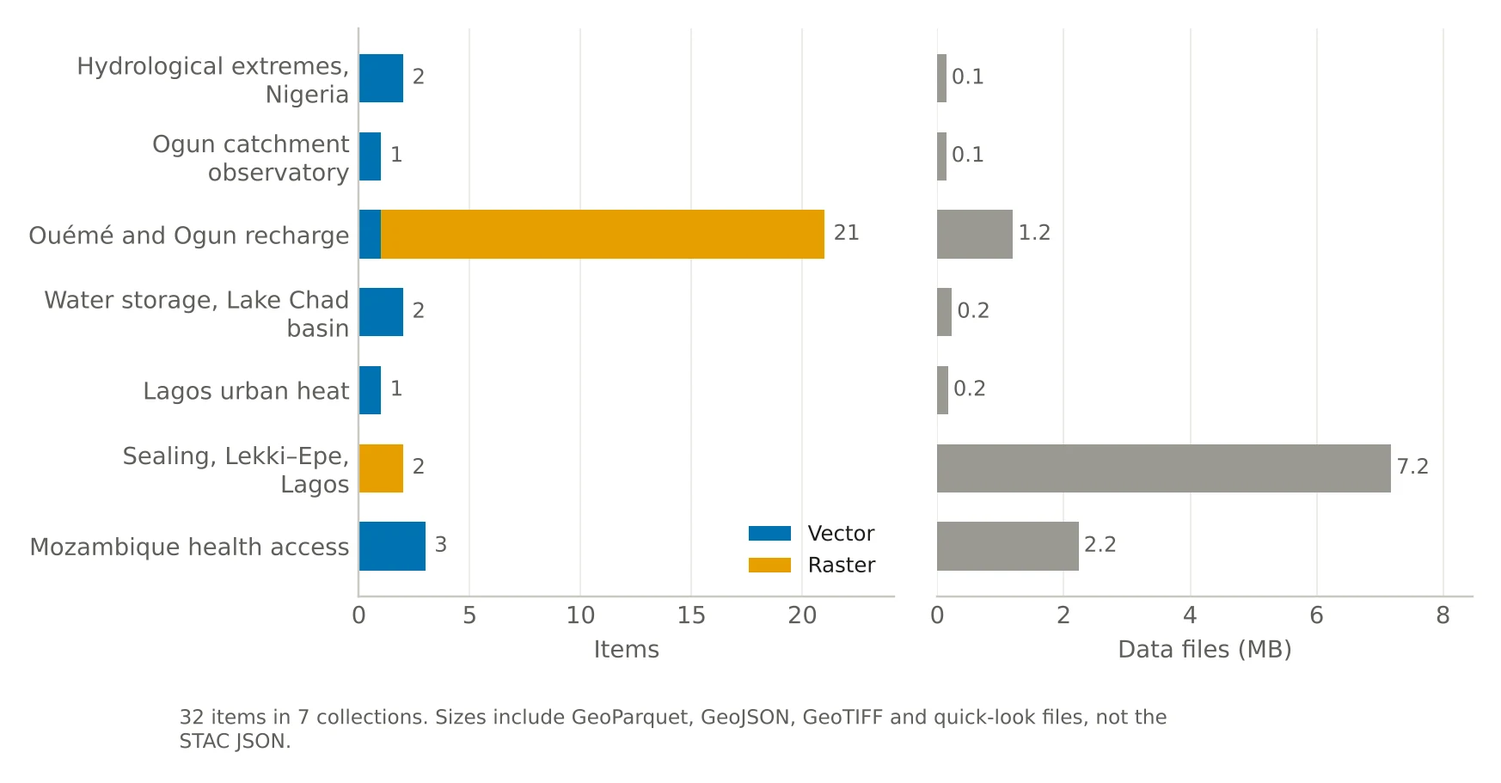
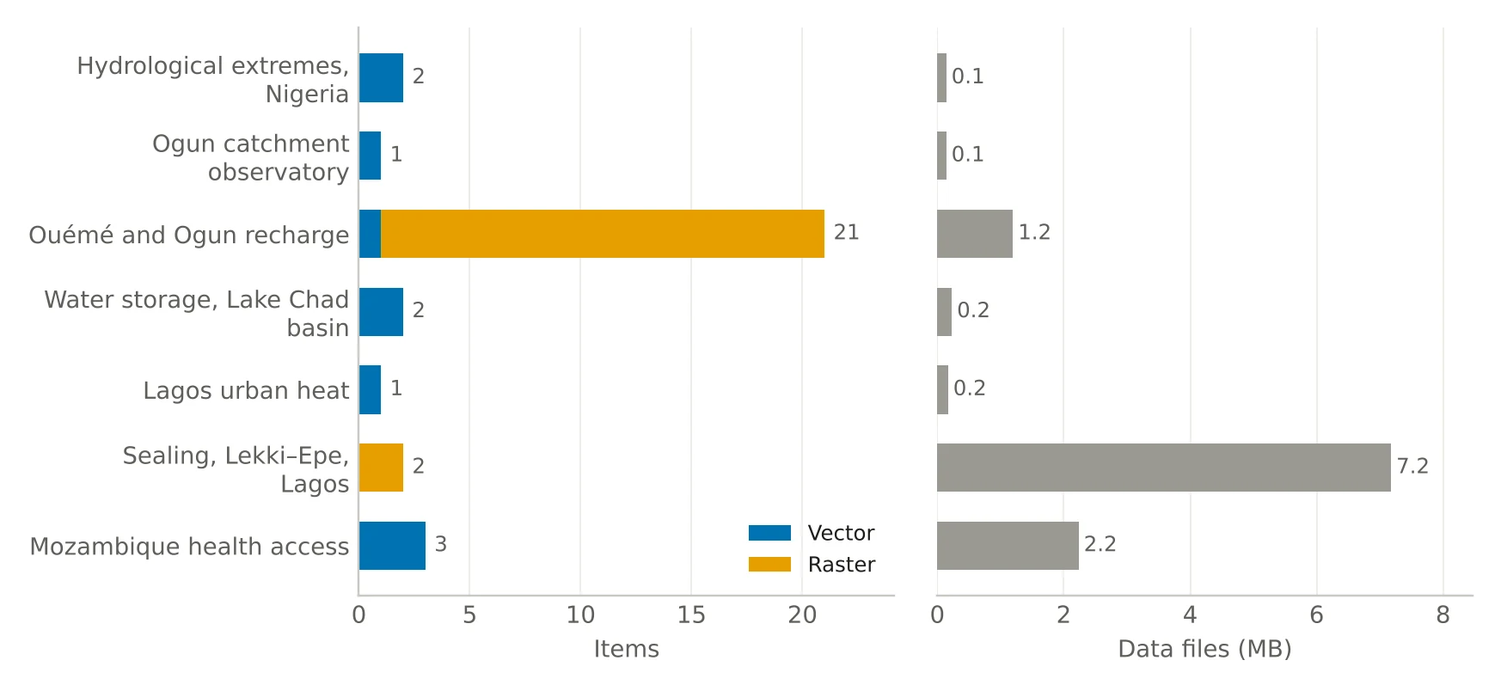
Fixes from the pre-release review

diff --git a/docs/about.html b/docs/about.html
@@ -81,17 +81,17 @@
 <p>Each study page shows maps, but a reader who wants the layers behind them has to find the right file in the right repository, and some of those files are not GIS formats: the per-cell rainfall return levels of the Nigerian extremes study and the per-cell storage trends of the Lake Chad study are stored as JSON for the page’s own map, and the Mozambique facility lists as a CSV table. A catalogue gives each layer a stable address, a description, a time range, an extent, a licence and a checksum, and offers it in formats that GIS software and code read directly.</p>
 <p>Two standard ways of publishing such data were used. STAC describes files and their metadata as linked JSON documents and needs no server (STAC, 2024). OGC API Features is a web service standard for querying vector features, for example by bounding box, page by page (OGC, 2022). The first suits a static website; the second needs a database and a running server.</p>
 <h2 id="design">2. Design</h2>
-<p>Figure 1 shows the path of a layer: from a study repository, through one build script, into the static catalogue and from there into the database behind the service.</p>
+<p>Figure 1 shows the path of a layer: from a study repository, through the build script, into the static catalogue; from there the website is written, and the vector layers are loaded into the database behind the service.</p>
 <figure>
-<picture><source media="(max-width: 640px)" srcset="assets/figures/fig1_flow_phone.webp"><img src="assets/figures/fig1_flow.webp" alt="Figure 1. From the study repositories to the static catalogue and the service. The website and the catalogue share one folder; the service is run locally or with Docker Compose." width="804" height="1522" style="max-width: 351px" loading="lazy" decoding="async"></picture>
+<picture><source media="(max-width: 640px)" srcset="assets/figures/fig1_flow_phone.webp"><img src="assets/figures/fig1_flow.webp" alt="Figure 1. From the study repositories to the static catalogue and the service. The website and the catalogue share one folder; the service is run locally or with Docker Compose." width="996" height="1861" style="max-width: 435px" loading="lazy" decoding="async"></picture>
 <figcaption aria-hidden="true"><strong>Figure 1.</strong> From the study repositories to the static catalogue and the service. The website and the catalogue share one folder; the service is run locally or with Docker Compose.</figcaption>
 </figure>
 <h3 id="one-configuration-file">2.1 One configuration file</h3>
-<p><code>catalogue/sources.yaml</code> lists the studies. Each entry gives the repository, a title and description, the licences the study states and the file that states them, and the layers to include with a title, a description and a time range. A time range can also be read from a field of the layer or from a JSON results file of the study, so it is not typed twice. If an entry lists no layers, every GeoJSON and GeoTIFF file in the study’s <code>docs/data</code> and <code>outputs</code> folders is taken. If the repository, its outputs, a study period or a licence statement is missing, the entry is skipped and reported on the website. In all, 8 studies are configured; one was skipped (Mau-Forest-Land-Cover: no GeoJSON or GeoTIFF outputs found) at the last build.</p>
+<p><code>catalogue/sources.yaml</code> lists the studies. Each entry gives the repository, a title and description, the licences the study states and the file that states them, and the layers to include with a title, a description and a time range. A time range can also be read from a field of the layer or from a JSON results file of the study, so it is not typed twice. If an entry lists no layers, every GeoJSON and GeoTIFF file in the study’s <code>docs/data</code> and <code>outputs</code> folders is taken. If the repository, its outputs, a study period or a licence statement is missing, the entry is skipped and reported on the website. In all, 8 studies are configured; at the last build one was skipped (Mau-Forest-Land-Cover: no GeoJSON or GeoTIFF outputs found).</p>
 <h3 id="formats-checksums-and-size-limits">2.2 Formats, checksums and size limits</h3>
 <p>Vector layers are written as GeoParquet 1.1 (GeoParquet, n.d.) and GeoJSON, in longitude–latitude (EPSG:4326). Five layers were converted from files written for the study pages (JSON or CSV): grid cells to polygons, facility tables to points, and a district table joined to its outlines. Rasters are written as Cloud-Optimised GeoTIFFs (OGC, 2023) with rio-cogeo, in their original grid and projection, together with a small PNG quick-look in EPSG:4326 for the website. The catalogue holds 10 GeoParquet files (0.7 MB), 10 GeoJSON files (2.3 MB), 22 GeoTIFFs (7.5 MB) and 22 quick-looks (0.7 MB). The largest file is 3.5 MB.</p>
 <p>Every file carries its size and SHA-256 checksum (STAC file extension), raster items carry their grid (projection extension) and vector items their columns and feature count (table extension). A converted file larger than 20 MB would not be copied: its asset would point to the source file in the study repository instead. No file reached that limit, so every file is in the catalogue itself. The build also stops if the website folder would exceed 150 MB.</p>
-<p>Each collection records the study page, the repository, the data licence (CC BY 4.0 for 5 of the 7 studies, with exceptions noted below) and the commit of the study repository the files were taken from. The Coastal-Hydrogeology-Modeling repository states an MIT licence and no separate licence for its derived data, so its collection is marked “other” until the author states one. The Mozambique-Health-Access collection is marked “various”: each of its three items states its own licence (CC-BY-4.0, ODbL-1.0), because the layer derived from OpenStreetMap is under the ODbL, as the study states. In Ogun-Catchment-Coast-Observatory, the SAR flood fields (sar_flood_km2, sar_flood_max_km2, dw_flood_km2, sar_inundation_km2) use a MERIT Hydro height-above-drainage mask, which is dual-licensed CC BY-NC 4.0 or ODbL 1.0; if you reuse these fields commercially, check MERIT Hydro’s terms (see LICENSE-DATA.md of the study). In Lagos-Urban-Heat-Analytics, LGA boundaries are FAO GAUL 2015 (non-commercial use only); see LICENSE-DATA.md of the study.</p>
+<p>Each collection records the study page, the repository, the data licence (CC BY 4.0 for 5 of the 7 studies, with exceptions noted below) and the commit of the study repository the files were taken from. The Coastal-Hydrogeology-Modeling repository states an MIT licence and no separate licence for its derived data, so its collection is marked “other” until the author states one. The Mozambique-Health-Access collection is marked “various”: each of its three items states its own licence (CC BY 4.0, ODbL 1.0), because the layer derived from OpenStreetMap is under the ODbL, as the study states. In Ogun-Catchment-Coast-Observatory, the SAR flood fields (sar_flood_km2, sar_flood_max_km2, dw_flood_km2, sar_inundation_km2) use a MERIT Hydro height-above-drainage mask, which is dual-licensed CC BY-NC 4.0 or ODbL 1.0; if you reuse these fields commercially, check MERIT Hydro’s terms (see LICENSE-DATA.md of the study). In Lagos-Urban-Heat-Analytics, LGA boundaries are FAO GAUL 2015 (non-commercial use only); see LICENSE-DATA.md of the study.</p>
 <h3 id="a-static-catalogue-on-github-pages">2.3 A static catalogue on GitHub Pages</h3>
 <p>The catalogue is saved as a self-contained STAC catalogue: links between the root catalogue, collections and items are relative, and there are no <code>self</code> links, so the folder works wherever it is copied. The website is built from the same files. The index page lists the collections with small extent maps drawn with a copy of Leaflet on country outlines from Natural Earth, without a tile server, and a search box filters the items in the browser. Each collection and item has its own page with a map, the metadata and the files. The pages load their fonts from api.fontshare.com and, on the published site only, a reaction and page-view counter from abacus.jasoncameron.dev; Leaflet and the map outlines are served from the site itself, and nothing else is requested from a third party.</p>
 <h3 id="ogc-api-features-with-postgis-and-pygeoapi">2.4 OGC API Features with PostGIS and pygeoapi</h3>
@@ -188,13 +188,13 @@
 </tr>
 </tbody>
 </table></div>
-<p>Four of the studies lie in southwest Nigeria and Benin; the others cover two Nigerian river basins, the Lake Chad basin and Mozambique (Figure 2). Most items come from one study, the rainfall, evapotranspiration and water-surplus grids of the Ouémé and Ogun recharge study, while most of the data volume is in the two rasters of the Lekki–Epe sealing study (Figure 3).</p>
+<p>Most of the studies lie in southwest Nigeria and Benin; the others cover two Nigerian river basins, the Lake Chad basin and Mozambique (Figure 2). Most items come from one study, the rainfall, evapotranspiration and water-surplus grids of the Ouémé and Ogun recharge study, while most of the data volume is in the rasters of the Lekki–Epe sealing study (Figure 3).</p>
 <figure>
-<picture><source media="(max-width: 640px)" srcset="assets/figures/fig2_footprints_phone.webp"><img src="assets/figures/fig2_footprints.webp" alt="Figure 2. Where the items lie. Each item is drawn with the geometry recorded in its STAC item; for rasters, this is the extent of the grid." width="1737" height="1343" style="max-width: 758px" loading="lazy" decoding="async"></picture>
+<picture><source media="(max-width: 640px)" srcset="assets/figures/fig2_footprints_phone.webp"><img src="assets/figures/fig2_footprints.webp" alt="Figure 2. Where the items lie. Each item is drawn with the geometry recorded in its STAC item; for rasters, this is the extent of the grid." width="1734" height="1276" style="max-width: 757px" loading="lazy" decoding="async"></picture>
 <figcaption aria-hidden="true"><strong>Figure 2.</strong> Where the items lie. Each item is drawn with the geometry recorded in its STAC item; for rasters, this is the extent of the grid.</figcaption>
 </figure>
 <figure>
-<picture><source media="(max-width: 640px)" srcset="assets/figures/fig3_contents_phone.webp"><img src="assets/figures/fig3_contents.webp" alt="Figure 3. Items and data volume per collection. The volume counts the GeoParquet, GeoJSON, GeoTIFF and quick-look files, not the STAC JSON." width="1746" height="911" style="max-width: 762px" loading="lazy" decoding="async"></picture>
+<picture><source media="(max-width: 640px)" srcset="assets/figures/fig3_contents_phone.webp"><img src="assets/figures/fig3_contents.webp" alt="Figure 3. Items and data volume per collection. The volume counts the GeoParquet, GeoJSON, GeoTIFF and quick-look files, not the STAC JSON." width="1746" height="804" style="max-width: 762px" loading="lazy" decoding="async"></picture>
 <figcaption aria-hidden="true"><strong>Figure 3.</strong> Items and data volume per collection. The volume counts the GeoParquet, GeoJSON, GeoTIFF and quick-look files, not the STAC JSON.</figcaption>
 </figure>
 <p>The periods are those of the layers, not of the studies: for example the Lagos layer holds the attributes of an earlier Earth Engine export, and its own period field is used.</p>

diff --git a/docs/index.html b/docs/index.html
@@ -155,7 +155,7 @@
     </div>
 </li>
     </ul>
-    <p class="cat-pending"><span data-stat="n_pending">1</span> more studies are listed in <code>catalogue/sources.yaml</code> but were not added at the last build: <a href="https://github.com/oloyededavid/Mau-Forest-Land-Cover">Mau-Forest-Land-Cover</a> (no GeoJSON or GeoTIFF outputs found). Each is added by rebuilding once its repository has outputs, a study period and a licence statement.</p>
+    <p class="cat-pending">Listed in <code>catalogue/sources.yaml</code> but not added at the last build (<span data-stat="n_pending">1</span> study): <a href="https://github.com/oloyededavid/Mau-Forest-Land-Cover">Mau-Forest-Land-Cover</a> (no GeoJSON or GeoTIFF outputs found). It is added by rebuilding once its repository has outputs, a study period and a licence statement.</p>
 </section>
 
 <section id="search" aria-labelledby="h-search">
@@ -181,7 +181,7 @@
 <section id="use" aria-labelledby="h-use">
     <h2 class="cat-h" id="h-use">Use the data</h2>
     <p>The catalogue root is <a href="stac/catalog.json"><code>stac/catalog.json</code></a>. All links inside it are relative, so it can be copied or mirrored as a folder. Vector layers come as GeoParquet and GeoJSON in longitude–latitude (EPSG:4326); rasters as Cloud-Optimised GeoTIFFs in their original grid, with a PNG quick-look. Each file has its size and SHA-256 checksum in the STAC item (<code>file:size</code>, <code>file:checksum</code>).</p>
-    <pre class="cat-code"><code>import pystac, geopandas as gpd
+    <pre class="cat-code" tabindex="0"><code>import pystac, geopandas as gpd
 cat = pystac.Catalog.from_file("https://oloyededavid.github.io/Open-Geodata-Catalogue/stac/catalog.json")
 item = cat.get_child("observational-hydrology-extremes").get_item("study-areas")
 gdf = gpd.read_parquet(item.assets["geoparquet"].get_absolute_href())</code></pre>
@@ -191,7 +191,7 @@ gdf = gpd.read_parquet(item.assets["geoparquet"].get_absolute_href())</code></pr
 <section id="api" aria-labelledby="h-api">
     <h2 class="cat-h" id="h-api">OGC API Features</h2>
     <p>The <span data-stat="n_vector_items">10</span> vector layers can also be served as OGC API Features collections from PostGIS with pygeoapi, so that GIS clients can query them by bounding box and page through features. This website is static and cannot run that service. To run it, clone the repository and start it with Docker Compose, or locally with PostgreSQL, PostGIS and pygeoapi installed (see the README):</p>
-    <pre class="cat-code"><code>docker compose up
+    <pre class="cat-code" tabindex="0"><code>docker compose up
 curl "http://localhost:5000/collections"
 curl "http://localhost:5000/collections/observational_hydrology_extremes_study_areas/items?limit=5&amp;bbox=3,5,10,17"</code></pre>
     <p>At the last local check (<span data-stat="svc:checked">2026-11-19</span>), the service served <span data-stat="svc:n_collections">10</span> collections with <span data-stat="svc:n_features">4,162</span> features from PostGIS <span data-stat="svc:postgis_version">3.4.2</span> with pygeoapi <span data-stat="svc:pygeoapi_version">0.24.0</span>, and every check passed: paging with <code>limit</code>, single features, bounding-box filtering and the core, GeoJSON and OpenAPI conformance classes. pygeoapi declares <span data-stat="svc:conformance_classes">18</span> conformance classes in all; the others were not tested here, and no formal OGC test suite was run.</p>

diff --git a/scripts/build_figures.py b/scripts/build_figures.py
@@ -73,29 +73,29 @@ def arrow(ax, a, b, label=None, off=(0, 0.12)):
 def fig1_flow(phone):
     S = stats()
     n_rep = S["n_collections"]
-    src = ("Study repositories", [f"{n_rep} studies", "docs/data, outputs", "GeoJSON, GeoTIFF,", "JSON, CSV"])
+    src = ("Study repositories", [f"{n_rep} studies included", "docs/data, outputs:", "GeoJSON, GeoTIFF,", "JSON, CSV"])
     cfg = ("sources.yaml", ["one entry per study:", "layers, periods,", "licences"])
     bld = ("build_catalogue.py", ["converts, checksums,", "writes STAC 1.1.0"])
     stac = ("Static catalogue", ["GeoParquet, GeoJSON,", "Cloud-Optimised GeoTIFF,", "STAC JSON with", "relative links"])
     site = ("GitHub Pages", ["browsable website,", "search, maps"])
     pg = ("PostGIS", ["one table per", "vector item"])
-    api = ("pygeoapi", ["OGC API Features,", "local or Docker"])
+    api = ("pygeoapi", ["OGC API Features,", "local or Docker;", "configured by", "build_service_config.py"])
     # one stacked layout for both sizes: a wide one shrinks below reading size in the text column
-    fig, ax = plt.subplots(figsize=(5.6, 8.6))
-    ax.set_xlim(0, 7.2); ax.set_ylim(1.4, 15.6)
-    w, h = 3.4, 2.3
-    P = {"src": (0.0, 13.2), "cfg": (3.8, 13.2), "bld": (1.9, 10.1), "stac": (0.0, 6.7), "site": (0.0, 3.3),
-         "pg": (3.8, 6.7), "api": (3.8, 3.3)}
+    fig, ax = plt.subplots(figsize=(5.6, 10.6))
+    ax.set_xlim(0, 7.2); ax.set_ylim(0.3, 14.2)
+    w, h = 3.4, 2.1
+    P = {"src": (0.0, 12.0), "cfg": (3.8, 12.0), "bld": (1.9, 9.2), "stac": (1.9, 6.4), "site": (0.0, 3.4),
+         "pg": (3.8, 3.4), "api": (3.8, 0.4)}
     for k, (t, l) in zip(P, (src, cfg, bld, stac, site, pg, api)):
         box(ax, *P[k], w, h, t, l, fill="#f6f6f3" if k == "bld" else "white", small=True)
-    arrow(ax, (1.7, 13.2), (2.8, 12.4)); arrow(ax, (5.5, 13.2), (4.4, 12.4))
-    arrow(ax, (2.8, 10.1), (1.7, 9.0), "files", off=(-0.55, 0))
-    arrow(ax, (1.7, 6.7), (1.7, 5.6), "as is", off=(0.45, -0.1))
-    arrow(ax, (3.4, 7.3), (3.8, 7.3))
-    arrow(ax, (5.5, 6.7), (5.5, 5.6), "SQL", off=(0.4, -0.1))
-    ax.text(0.0, 2.9, textwrap.fill("The tests check the catalogue files, the service and the pages. The website "
-                                     "and the catalogue are the same folder, docs/. The short arrow is "
-                                     "load_postgis.py, which loads the vector items.", 62), fontsize=7.8, color=INK2, va="top")
+    arrow(ax, (1.7, 12.0), (2.8, 11.3)); arrow(ax, (5.5, 12.0), (4.4, 11.3))
+    arrow(ax, (3.6, 9.2), (3.6, 8.5), "files", off=(0.4, -0.15))
+    arrow(ax, (2.6, 6.4), (1.7, 5.5), "build_site.py", off=(-0.95, -0.1))
+    arrow(ax, (4.6, 6.4), (5.5, 5.5), "load_postgis.py", off=(1.1, -0.1))
+    arrow(ax, (5.5, 3.4), (5.5, 2.5), "SQL", off=(0.4, -0.15))
+    ax.text(0.0, 2.45, textwrap.fill("The tests check the catalogue files, the service and the numbers on the "
+                                     "pages. The website and the catalogue share one folder, docs/.", 30),
+            fontsize=7.6, color=INK2, va="top")
     ax.axis("off")
     ax.set_aspect("equal")
     save(fig, "fig1_flow", phone)
@@ -109,8 +109,8 @@ def fig2_footprints(phone):
     base = gpd.read_file(DOCS / "assets" / "basemap.geojson")
     zoom = (1.0, 5.6, 4.6, 11.0)  # lon_min, lat_min, lon_max, lat_max: southwest Nigeria and Benin
     if phone:
-        fig = plt.figure(figsize=(5.6, 10.6))
-        a0 = fig.add_axes([0.0, 0.47, 1.0, 0.5]); a1 = fig.add_axes([0.08, 0.1, 0.84, 0.34])
+        fig = plt.figure(figsize=(3.8, 7.6))
+        a0 = fig.add_axes([0.0, 0.5, 1.0, 0.47]); a1 = fig.add_axes([0.06, 0.16, 0.88, 0.3])
     else:
         fig = plt.figure(figsize=(7.6, 5.6))
         a0 = fig.add_axes([0.0, 0.2, 0.52, 0.76]); a1 = fig.add_axes([0.56, 0.2, 0.42, 0.72])
@@ -119,7 +119,7 @@ def fig2_footprints(phone):
         base.plot(ax=ax, facecolor=LAND, edgecolor="white", linewidth=0.6)
         for cid in order:
             g = f[f["collection"] == cid]
-            g.plot(ax=ax, facecolor=col[cid], alpha=0.16, edgecolor="none")
+            gpd.GeoSeries([g.union_all()], crs=g.crs).plot(ax=ax, facecolor=col[cid], alpha=0.16, edgecolor="none")
             g.boundary.plot(ax=ax, color=col[cid], linewidth=0.9 if ax is a1 else 0.6)
         ax.set_xlim(ext[0], ext[2]); ax.set_ylim(ext[1], ext[3])
         ax.set_xticks([]); ax.set_yticks([]); ax.set_xlabel(""); ax.set_ylabel("")
@@ -135,11 +135,7 @@ def fig2_footprints(phone):
     handles = [Rectangle((0, 0), 1, 1, facecolor=col[c], alpha=0.5, edgecolor=col[c]) for c in order]
     labels = [f"{SHORT.get(c, c)} ({counts[c]} item{'s' if counts[c] != 1 else ''})" for c in order]
     fig.legend(handles, labels, loc="lower left", bbox_to_anchor=(0.0, -0.02 if phone else 0.0),
-               ncol=1 if phone else 2, frameon=False, fontsize=8)
-    fig.text(0.0, -0.05 if phone else -0.04,
-             "Each item drawn with the geometry recorded in its STAC item; for rasters, the extent of the grid. "
-             "Country outlines: Natural Earth." if not phone else "Each item drawn with the geometry recorded in its STAC\n"
-             "item; for rasters, the extent of the grid. Country outlines:\nNatural Earth.", fontsize=7.6, color=INK2)
+               ncol=1 if phone else 2, frameon=False, fontsize=7.4 if phone else 8)
     save(fig, "fig2_footprints", phone)
 
 
@@ -147,7 +143,7 @@ def fig3_contents(phone):
     S = stats()
     C = S["collections"]
     names = [SHORT.get(c["id"], c["id"]) for c in C]
-    fig, (a0, a1) = plt.subplots(1, 2, figsize=(5.6, 5.4) if phone else (7.6, 3.9), sharey=True,
+    fig, (a0, a1) = plt.subplots(1, 2, figsize=(3.8, 4.8) if phone else (7.6, 3.9), sharey=True,
                                  gridspec_kw={"width_ratios": (1, 1), "wspace": 0.08 if not phone else 0.12})
     y = range(len(C))
     vec = [c["vector"] for c in C]; ras = [c["raster"] for c in C]
@@ -159,7 +155,7 @@ def fig3_contents(phone):
     a1.barh(y, mbv, color="#9a9992", height=0.62)
     for yi, v in zip(y, mbv):
         a1.text(v + 0.08, yi, f"{v:.1f}", va="center", fontsize=8, color=INK2)
-    a0.set_yticks(list(y), [textwrap.fill(n, 18 if phone else 24) for n in names], fontsize=8 if phone else 9)
+    a0.set_yticks(list(y), [textwrap.fill(n, 16 if phone else 24) for n in names], fontsize=8 if phone else 9)
     a0.invert_yaxis()
     a0.set_xlabel("Items"); a1.set_xlabel("Data files (MB)")
     a0.set_xlim(0, max(c["items"] for c in C) * 1.15); a1.set_xlim(0, max(mbv) * 1.18)
@@ -169,10 +165,6 @@ def fig3_contents(phone):
         ax.tick_params(length=0)
     a1.spines["left"].set_visible(False)
     a0.legend(loc="lower right", frameon=False, fontsize=8)
-    fig.text(0.0, -0.04 if not phone else -0.02,
-             textwrap.fill(f"{S['n_items']} items in {S['n_collections']} collections. Sizes include GeoParquet, GeoJSON, "
-                           "GeoTIFF and quick-look files, not the STAC JSON.", 70 if phone else 100),
-             fontsize=7.6, color=INK2, va="top")
     save(fig, "fig3_contents", phone)
 
 

diff --git a/scripts/build_site.py b/scripts/build_site.py
@@ -164,9 +164,11 @@ def index_page(cat, S, svc):
     pending = ""
     if S["pending"]:
         rows = "; ".join(f'<a href="https://github.com/oloyededavid/{E(p["repo"])}">{E(p["repo"])}</a> ({E(p["reason"])})' for p in S["pending"])
-        pending = (f'<p class="cat-pending">{stat("n_pending", S["n_pending"])} more studies are listed in '
-                   f'<code>catalogue/sources.yaml</code> but were not added at the last build: {rows}. Each is added by '
-                   f'rebuilding once its repository has outputs, a study period and a licence statement.</p>')
+        one = S["n_pending"] == 1
+        pending = (f'<p class="cat-pending">Listed in <code>catalogue/sources.yaml</code> but not added at the last build '
+                   f'({stat("n_pending", S["n_pending"])} {"study" if one else "studies"}): {rows}. '
+                   f'{"It is" if one else "Each is"} added by rebuilding once its repository has outputs, a study period '
+                   f'and a licence statement.</p>')
     options = "\n".join(f'<option value="{c["id"]}">{E(c["title"])}</option>' for c in S["collections"])
     svc_html = ""
     if svc:
@@ -223,7 +225,7 @@ def index_page(cat, S, svc):
 <section id="use" aria-labelledby="h-use">
     <h2 class="cat-h" id="h-use">Use the data</h2>
     <p>The catalogue root is <a href="stac/catalog.json"><code>stac/catalog.json</code></a>. All links inside it are relative, so it can be copied or mirrored as a folder. Vector layers come as GeoParquet and GeoJSON in longitude–latitude (EPSG:4326); rasters as Cloud-Optimised GeoTIFFs in their original grid, with a PNG quick-look. Each file has its size and SHA-256 checksum in the STAC item (<code>file:size</code>, <code>file:checksum</code>).</p>
-    <pre class="cat-code"><code>import pystac, geopandas as gpd
+    <pre class="cat-code" tabindex="0"><code>import pystac, geopandas as gpd
 cat = pystac.Catalog.from_file("{SITE_URL}stac/catalog.json")
 item = cat.get_child("{first}").get_item("study-areas")
 gdf = gpd.read_parquet(item.assets["geoparquet"].get_absolute_href())</code></pre>
@@ -233,7 +235,7 @@ gdf = gpd.read_parquet(item.assets["geoparquet"].get_absolute_href())</code></pr
 <section id="api" aria-labelledby="h-api">
     <h2 class="cat-h" id="h-api">OGC API Features</h2>
     <p>The {stat('n_vector_items', S['n_vector_items'])} vector layers can also be served as OGC API Features collections from PostGIS with pygeoapi, so that GIS clients can query them by bounding box and page through features. This website is static and cannot run that service. To run it, clone the repository and start it with Docker Compose, or locally with PostgreSQL, PostGIS and pygeoapi installed (see the README):</p>
-    <pre class="cat-code"><code>docker compose up
+    <pre class="cat-code" tabindex="0"><code>docker compose up
 curl "http://localhost:5000/collections"
 curl "http://localhost:5000/collections/{table_name(first, 'study-areas')}/items?limit=5&amp;bbox=3,5,10,17"</code></pre>
     {svc_html}

diff --git a/scripts/build_paper.py b/scripts/build_paper.py
@@ -40,8 +40,8 @@ def values():
         "n_collections_word": WORDS[S["n_collections"]].capitalize(), "n_converted": WORDS[S["n_converted"]].capitalize(),
         "n_collections": S["n_collections"], "n_items": S["n_items"], "n_vector_items": S["n_vector_items"],
         "n_raster_items": S["n_raster_items"], "n_features": f"{S['n_features']:,}", "n_data_files": S["n_data_files"],
-        "mb_data": mb(S["bytes_data_files"]), "n_sources_configured": S["n_sources_configured"], "skipped_sentence": ("none was skipped" if pending == 0 else f"{WORDS[pending]} {'was' if pending == 1 else 'were'} skipped ("
-                             + ", ".join(f"{p['repo']}: {p['reason']}" for p in S["pending"]) + ")") + " at the last build",
+        "mb_data": mb(S["bytes_data_files"]), "n_sources_configured": S["n_sources_configured"], "skipped_sentence": "at the last build " + ("none was skipped" if pending == 0 else f"{WORDS[pending]} {'was' if pending == 1 else 'were'} skipped ("
+                             + ", ".join(f"{p['repo']}: {p['reason']}" for p in S["pending"]) + ")"),
         "files_geoparquet": ff["geoparquet"], "mb_geoparquet": mb(bf["geoparquet"]),
         "files_geojson": ff["geojson"], "mb_geojson": mb(bf["geojson"]),
         "files_cog": ff["cog"], "mb_cog": mb(bf["cog"]), "files_preview": ff["preview"], "mb_preview": mb(bf["preview"]),
@@ -58,7 +58,7 @@ def values():
             f"collection is marked “other” until the author states one." for c in other),
         "item_licence_sentence": " ".join(
             f"The {c['repo']} collection is marked “various”: each of its {WORDS[len(c['items_own_licence'])]} items states its own "
-            f"licence ({', '.join(sorted({x['licence'] for x in c['items_own_licence']}))}), because the layer derived from "
+            f"licence ({', '.join(sorted({x['licence'].replace('-', ' ') for x in c['items_own_licence']}))}), because the layer derived from "
             f"OpenStreetMap is under the ODbL, as the study states."
             for c in various),
         "svc_checked": V["checked"], "svc_pygeoapi": V["pygeoapi_version"], "svc_collections": V["n_collections"],

diff --git a/paper/paper.md b/paper/paper.md
@@ -16,13 +16,13 @@ Two standard ways of publishing such data were used. STAC describes files and th
 
 # 2. Design
 
-Figure 1 shows the path of a layer: from a study repository, through one build script, into the static catalogue and from there into the database behind the service.
+Figure 1 shows the path of a layer: from a study repository, through the build script, into the static catalogue; from there the website is written, and the vector layers are loaded into the database behind the service.
 
 ![**Figure 1.** From the study repositories to the static catalogue and the service. The website and the catalogue share one folder; the service is run locally or with Docker Compose.](../docs/assets/figures/fig1_flow.webp)
 
 ## 2.1 One configuration file
 
-`catalogue/sources.yaml` lists the studies. Each entry gives the repository, a title and description, the licences the study states and the file that states them, and the layers to include with a title, a description and a time range. A time range can also be read from a field of the layer or from a JSON results file of the study, so it is not typed twice. If an entry lists no layers, every GeoJSON and GeoTIFF file in the study's `docs/data` and `outputs` folders is taken. If the repository, its outputs, a study period or a licence statement is missing, the entry is skipped and reported on the website. In all, 8 studies are configured; one was skipped (Mau-Forest-Land-Cover: no GeoJSON or GeoTIFF outputs found) at the last build.
+`catalogue/sources.yaml` lists the studies. Each entry gives the repository, a title and description, the licences the study states and the file that states them, and the layers to include with a title, a description and a time range. A time range can also be read from a field of the layer or from a JSON results file of the study, so it is not typed twice. If an entry lists no layers, every GeoJSON and GeoTIFF file in the study's `docs/data` and `outputs` folders is taken. If the repository, its outputs, a study period or a licence statement is missing, the entry is skipped and reported on the website. In all, 8 studies are configured; at the last build one was skipped (Mau-Forest-Land-Cover: no GeoJSON or GeoTIFF outputs found).
 
 ## 2.2 Formats, checksums and size limits
 
@@ -30,7 +30,7 @@ Vector layers are written as GeoParquet 1.1 (GeoParquet, n.d.) and GeoJSON, in l
 
 Every file carries its size and SHA-256 checksum (STAC file extension), raster items carry their grid (projection extension) and vector items their columns and feature count (table extension). A converted file larger than 20 MB would not be copied: its asset would point to the source file in the study repository instead. No file reached that limit, so every file is in the catalogue itself. The build also stops if the website folder would exceed 150 MB.
 
-Each collection records the study page, the repository, the data licence (CC BY 4.0 for 5 of the 7 studies, with exceptions noted below) and the commit of the study repository the files were taken from. The Coastal-Hydrogeology-Modeling repository states an MIT licence and no separate licence for its derived data, so its collection is marked “other” until the author states one. The Mozambique-Health-Access collection is marked “various”: each of its three items states its own licence (CC-BY-4.0, ODbL-1.0), because the layer derived from OpenStreetMap is under the ODbL, as the study states. In Ogun-Catchment-Coast-Observatory, the SAR flood fields (sar_flood_km2, sar_flood_max_km2, dw_flood_km2, sar_inundation_km2) use a MERIT Hydro height-above-drainage mask, which is dual-licensed CC BY-NC 4.0 or ODbL 1.0; if you reuse these fields commercially, check MERIT Hydro's terms (see LICENSE-DATA.md of the study). In Lagos-Urban-Heat-Analytics, LGA boundaries are FAO GAUL 2015 (non-commercial use only); see LICENSE-DATA.md of the study.
+Each collection records the study page, the repository, the data licence (CC BY 4.0 for 5 of the 7 studies, with exceptions noted below) and the commit of the study repository the files were taken from. The Coastal-Hydrogeology-Modeling repository states an MIT licence and no separate licence for its derived data, so its collection is marked “other” until the author states one. The Mozambique-Health-Access collection is marked “various”: each of its three items states its own licence (CC BY 4.0, ODbL 1.0), because the layer derived from OpenStreetMap is under the ODbL, as the study states. In Ogun-Catchment-Coast-Observatory, the SAR flood fields (sar_flood_km2, sar_flood_max_km2, dw_flood_km2, sar_inundation_km2) use a MERIT Hydro height-above-drainage mask, which is dual-licensed CC BY-NC 4.0 or ODbL 1.0; if you reuse these fields commercially, check MERIT Hydro's terms (see LICENSE-DATA.md of the study). In Lagos-Urban-Heat-Analytics, LGA boundaries are FAO GAUL 2015 (non-commercial use only); see LICENSE-DATA.md of the study.
 
 ## 2.3 A static catalogue on GitHub Pages
 
@@ -60,7 +60,7 @@ At the last service check (2026-11-19), pygeoapi 0.24.0 served 10 collections wi
 | [Urban sealing and the shallow water table of the Lekki–Epe barrier, Lagos](https://oloyededavid.github.io/Coastal-Hydrogeology-Modeling/) | 2 | 0 | 4 | 7.2 | 1986–2024 | not stated |
 | [Travel time to health facilities in Mozambique](https://oloyededavid.github.io/Mozambique-Health-Access/) | 3 | 3,484 | 6 | 2.2 | 2019–2024 | various |
 
-Four of the studies lie in southwest Nigeria and Benin; the others cover two Nigerian river basins, the Lake Chad basin and Mozambique (Figure 2). Most items come from one study, the rainfall, evapotranspiration and water-surplus grids of the Ouémé and Ogun recharge study, while most of the data volume is in the two rasters of the Lekki–Epe sealing study (Figure 3).
+Most of the studies lie in southwest Nigeria and Benin; the others cover two Nigerian river basins, the Lake Chad basin and Mozambique (Figure 2). Most items come from one study, the rainfall, evapotranspiration and water-surplus grids of the Ouémé and Ogun recharge study, while most of the data volume is in the rasters of the Lekki–Epe sealing study (Figure 3).
 
 ![**Figure 2.** Where the items lie. Each item is drawn with the geometry recorded in its STAC item; for rasters, this is the extent of the grid.](../docs/assets/figures/fig2_footprints.webp)
 

diff --git a/paper/template.md b/paper/template.md
@@ -16,7 +16,7 @@ Two standard ways of publishing such data were used. STAC describes files and th
 
 # 2. Design
 
-Figure 1 shows the path of a layer: from a study repository, through one build script, into the static catalogue and from there into the database behind the service.
+Figure 1 shows the path of a layer: from a study repository, through the build script, into the static catalogue; from there the website is written, and the vector layers are loaded into the database behind the service.
 
 ![**Figure 1.** From the study repositories to the static catalogue and the service. The website and the catalogue share one folder; the service is run locally or with Docker Compose.](../docs/assets/figures/fig1_flow.webp)
 
@@ -52,7 +52,7 @@ At the last service check ({{svc_checked}}), pygeoapi {{svc_pygeoapi}} served {{
 
 {{collections_table}}
 
-Four of the studies lie in southwest Nigeria and Benin; the others cover two Nigerian river basins, the Lake Chad basin and Mozambique (Figure 2). Most items come from one study, the rainfall, evapotranspiration and water-surplus grids of the Ouémé and Ogun recharge study, while most of the data volume is in the two rasters of the Lekki–Epe sealing study (Figure 3).
+Most of the studies lie in southwest Nigeria and Benin; the others cover two Nigerian river basins, the Lake Chad basin and Mozambique (Figure 2). Most items come from one study, the rainfall, evapotranspiration and water-surplus grids of the Ouémé and Ogun recharge study, while most of the data volume is in the rasters of the Lekki–Epe sealing study (Figure 3).
 
 ![**Figure 2.** Where the items lie. Each item is drawn with the geometry recorded in its STAC item; for rasters, this is the extent of the grid.](../docs/assets/figures/fig2_footprints.webp)
 
